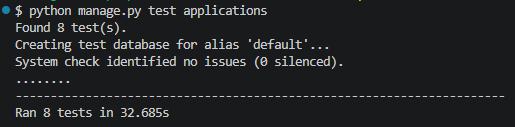
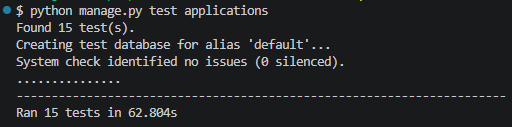
updated application app testing

diff --git a/applications/tests.py b/applications/tests.py
@@ -34,11 +34,11 @@ class ApplicationPermissionTests(TestCase):
         self.candidate_user = User.objects.create_user(username='candidate1', password='testpass123')
         self.candidate = Candidate.objects.create(
             account=self.candidate_user,
-            first_name='Test',
+            first_name='Test1',
             last_name='Candidate',
             personal_statement='Test',
             skills='Python, Django',
-            experience='Test'
+            experience='Test1'
         )
 
         self.job = Job.objects.create(
@@ -137,6 +137,7 @@ class ApplicationPermissionTests(TestCase):
         self.assertEqual(application.status, 'withdrawn')
         self.assertTrue(Application.objects.filter(pk=application.pk).exists())
 
+
     def test_candidate_cannot_withdraw_another_candidates_application(self):
         """
         A candidate must not be able to withdraw someone else's application.
@@ -159,7 +160,7 @@ class ApplicationPermissionTests(TestCase):
         self.client.login(username='candidate1', password='testpass123')
         response = self.client.post(f'/applications/withdraw/{application.pk}/')
         self.assertEqual(response.status_code, 403)
-
+           
 
 
 class ApplicantRichTextOutputTests(TestCase):
@@ -212,3 +213,117 @@ class ApplicantRichTextOutputTests(TestCase):
 
         self.assertEqual(response.status_code, 200)
         self.assertNotContains(response, '<script>alert(')
+
+
+class WithdrawAndViewCrossRoleTests(TestCase):
+    """
+    Cross-role checks on withdrawing and on the applicant/company application lists.
+    """
+
+    # setup mock data 
+    def setUp(self):
+        self.company_user_a = User.objects.create_user(username='companya', password='testpass123')
+        self.company_a = Companies.objects.create(
+            owner=self.company_user_a,
+            company_name='Company A',
+            description='Test',
+            sectors='Tech'
+        )
+    
+        self.company_user_b = User.objects.create_user(username='companyb', password='testpass123')
+        self.company_b = Companies.objects.create(
+            owner=self.company_user_b,
+            company_name='Company B',
+            description='Test',
+            sectors='Tech'
+        )
+    
+        self.candidate_user_1 = User.objects.create_user(username='candidate1', password='testpass123')
+        self.candidate = Candidate.objects.create(
+            account=self.candidate_user_1,
+            first_name='Test',
+            last_name='Candidate',
+            personal_statement='Test',
+            skills='Python, Django',
+            experience='Test'
+        )
+
+        self.candidate_user_2 = User.objects.create_user(username='candidate2', password='testpass123')
+        self.other_candidate = Candidate.objects.create(
+            account=self.candidate_user_2,
+            first_name='Test',
+            last_name='Candidate',
+            personal_statement='Test',
+            skills='Python, Django',
+            experience='Test'
+        )
+            
+    
+        self.job = Job.objects.create(
+            company=self.company_a,
+            title='Junior Developer',
+            description='Test description',
+            location='York, UK',
+            salary_min=25000,
+            salary_max=30000,
+            job_type='full_time',
+            is_active=True
+        )
+
+    def make_application(self, candidate=None, **kwargs):
+        return Application.objects.create(
+            job=self.job,
+            candidate=candidate or self.candidate,
+            cover_note='Test',
+            uk_working_status=True,
+            **kwargs
+        )
+ 
+    def test_company_cannot_withdraw_an_application(self):
+        application = self.make_application()
+        self.client.login(username='companya', password="testpass123")
+        response = self.client.post(reverse('withdraw_application', args=[application.pk]))
+        self.assertEqual(response.status_code, 403)
+        application.refresh_from_db()
+        self.assertEqual(application.status, 'submitted')
+
+
+ 
+    def test_get_request_does_not_withdraw_application(self):
+        application = self.make_application()
+        self.client.login(username='candidate1', password="testpass123")
+        self.client.get(reverse('withdraw_application', args=[application.pk]))
+        application.refresh_from_db()
+        self.assertEqual(application.status, 'submitted')
+ 
+    def test_anonymous_user_cannot_withdraw(self):
+        application = self.make_application()
+        response = self.client.post(reverse('withdraw_application', args=[application.pk]))
+        self.assertEqual(response.status_code, 302)
+        application.refresh_from_db()
+        self.assertEqual(application.status, 'submitted')
+ 
+    def test_company_gets_403_on_my_applications(self):
+        self.client.login(username='companya', password="testpass123")
+        response = self.client.get(reverse('my_applications'))
+        self.assertEqual(response.status_code, 403)
+ 
+    def test_candidate_sees_only_their_own_applications(self):
+        mine = self.make_application()
+        theirs = self.make_application(candidate=self.other_candidate)
+        self.client.login(username='candidate1', password="testpass123")
+        response = self.client.get(reverse('my_applications'))
+        self.assertEqual(response.status_code, 200)
+        self.assertIn(mine, response.context['applications'])
+        self.assertNotIn(theirs, response.context['applications'])
+ 
+    def test_candidate_gets_403_on_review_applications(self):
+        self.client.login(username='candidate1', password="testpass123")
+        response = self.client.get(reverse('review_applications', args=[self.job.slug]))
+        self.assertEqual(response.status_code, 403)
+ 
+    def test_anonymous_user_redirected_from_review_applications(self):
+        response = self.client.get(reverse('review_applications', args=[self.job.slug]))
+        self.assertEqual(response.status_code, 302)
+ 
+ 

diff --git a/testing.md b/testing.md
@@ -168,7 +168,14 @@ The following tests have been run and passed for the jobs application:
 5. A logged in company user cannot edit the job of a different company 
 6. A job marked as 'not active' is not displayed on the home page or accessible via URL
 7. A job marked as 'active' is displayed on the home page 
-8. A user cannot submit stored scripts in rich text fields
+8. A user cannot submit stored scripts in rich text fields in the application model
+9. A logged in company user cannot withdraw an applicaiton
+10. A get request does not withdraw an applicaiton 
+11. An anonymous visitor cannot withdraw an application 
+12. A logged in company user cannot view the 'My Applications' page 
+13. A logged in candidate user only sees their applicaitons 
+14. A logged in candidate user cannot view the 'Review Applications' page 
+15. An anonymous vistor is redirected to login when navigating to the 'Review Applications' apge
 
 <img src="./static/images/django-testing-applications.png">
 

diff --git a/README.md b/README.md
@@ -295,6 +295,7 @@ The following bugs occured during the design of this site:
 |5|Favicon not showing.|Needed to add to right static folder|
 |6|Redirect on submitting duplicate job entry|Navbar was hiding the alert pop up so fixed by changing to sticky-top bootstrap class.|
 |7|Users signing up as companies are not mapping properly.|Updated Companies.save() to guard against slugify() returning an empty string, and to check for slug collisions explicitly|
+|8|Safe_html not rendering and erroring on testing|I had misnamed the file so this was causing the errors|
 
 ## Deployment 
 For the version control, deployment and hosting of this site I have used GitHub and Heroku. 
